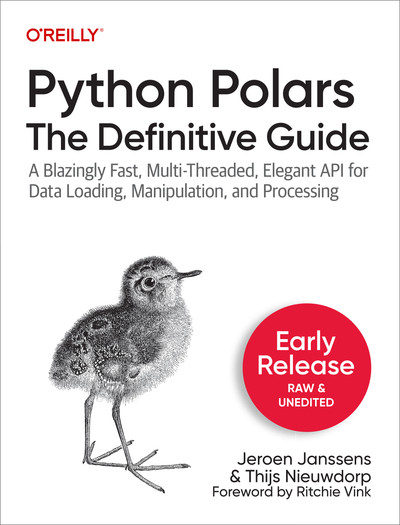
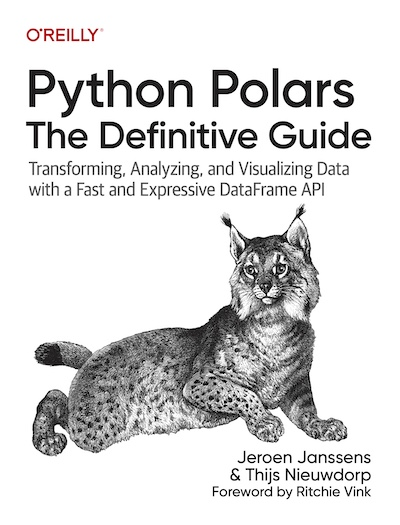
Update cover and toc

diff --git a/README.md b/README.md
@@ -48,37 +48,33 @@ Note that this outline is subject to change.
 1. Introducing Polars
 2. First Steps
 3. Transitioning from Pandas to Polars
-4. Transitioning from Spark to Polars
 
 #### Part 2: Load
 
-5. Data Types and Data Structures
-6. Eager and Lazy APIs
-7. Reading and Writing Data
+4. Data Types and Data Structures
+5. Eager and Lazy APIs
+6. Reading and Writing Data
 
 #### Part 3: Express
 
-8. Beginning Expressions
-9. Continuing Expressions
-10. Combining Expressions
+7. Beginning Expressions
+8. Continuing Expressions
+9. Combining Expressions
 
 #### Part 4: Transform
 
-11. Selecting and Creating Columns
-12. Filtering and Sorting Rows
-13. Working with Special Data Types
-14. Summarizing and Aggregating
-15. Joining and Concatenating
-16. Reshaping
+10. Selecting and Creating Columns
+11. Filtering and Sorting Rows
+12. Working with Special Data Types
+13. Summarizing and Aggregating
+14. Joining and Concatenating
+15. Reshaping
 
 #### Part 5: Advance
 
-17. Creating Visualizations
-18. Extending Polars
-19. SQL with Polars
-20. Debugging and Testing with Polars
-21. Polars Internals
-22. Integrating with Other Tools
+16. Creating Visualizations
+17. Extending Polars
+18. Polars Internals
 
 
 
